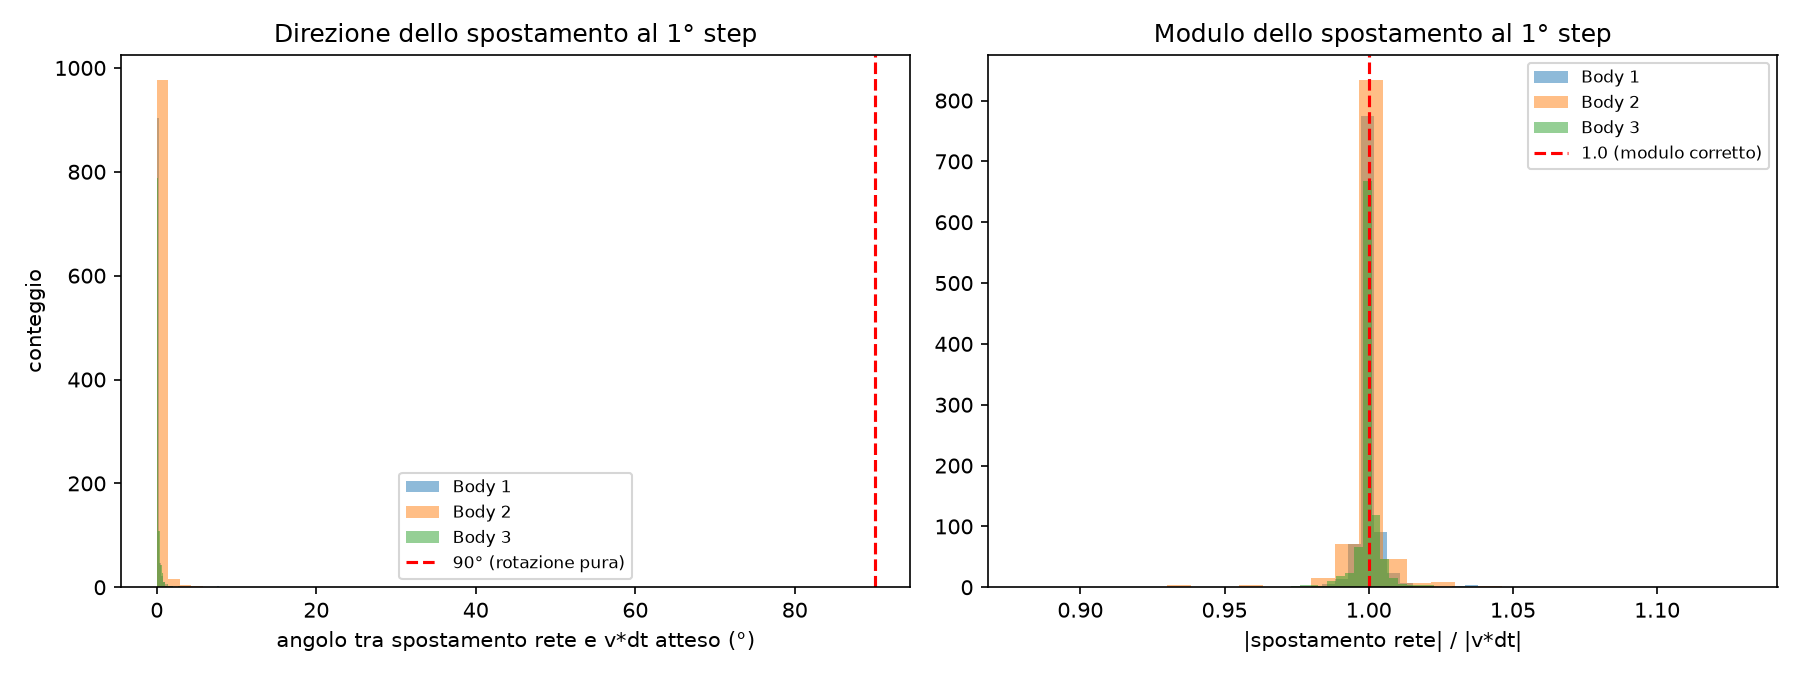
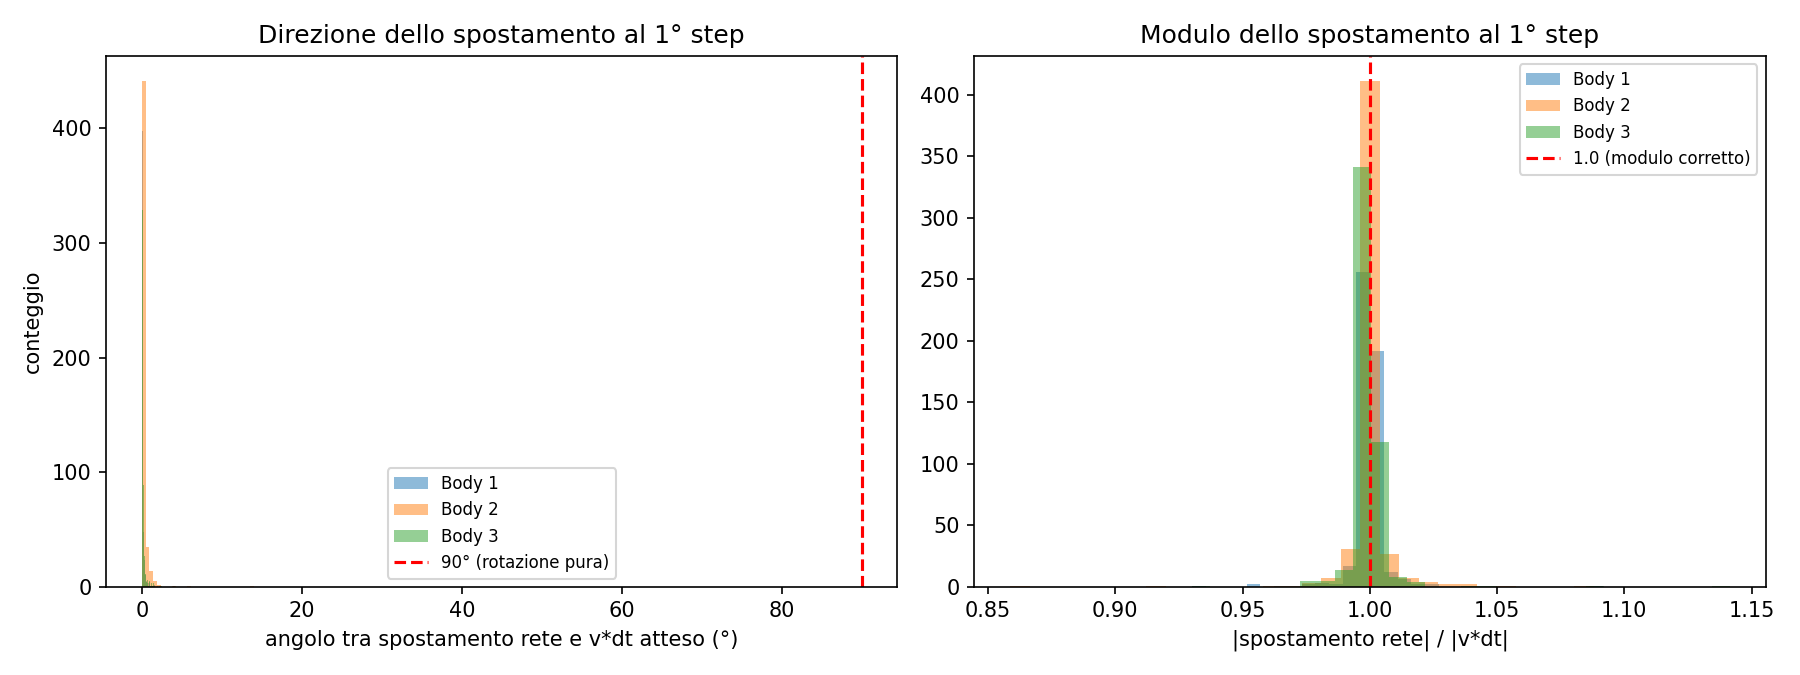
Model works bad but it makes sense, it is accumulating error, the 3 body problem is chaotic so if it changes a little bit at the beginning it will be terrible at the end

diff --git a/test_3body_pairwise.py b/test_3body_pairwise.py
@@ -1,5 +1,6 @@
 import torch
 import torch.nn as nn
+import torch.nn.functional as F
 import numpy as np
 import matplotlib.pyplot as plt
 import matplotlib.cm as cm
@@ -67,8 +68,10 @@ class PairwiseWrapperNBody(nn.Module):
                     m[:, j], p[:, j], v[:, j]
                 ], dim=-1)  # [B, 10]
 
+                state_pair_canon, _ = canonicalize_translation(state_pair)
+
                 # Prediciamo l'accelerazione usando la rete a 2 corpi
-                a_pair = self.net_2body.predict_acceleration(state_pair)  # [B, 2, 2]
+                a_pair = self.net_2body.predict_acceleration(state_pair_canon)  # [B, 2, 2]
 
                 # Accumuliamo i contributi vettoriali rispettivi
                 a_total[:, i] += a_pair[:, 0]
@@ -149,25 +152,27 @@ def test_pairwise_model(ModelWrapper, n_obj=3, device=torch.device("cpu"), rollo
     # Generiamo un'istanza iniziale standard a N corpi
     state = generate_instance(1, n_obj, device, dtype=dtype)
     # known problem 1
-    # state = torch.tensor([[
+    # special_state = torch.tensor([[
     #     3.0, 1.0, 3.0, 0.0, 0.0,
     #     4.0, -2.0, -1.0, 0.0, 0.0,
     #     5.0, 1.0, -1.0, 0.0, 0.0
     # ]], dtype=torch.float64)
 
     # known problem 2
-    # state = torch.tensor([[
-    #     1.0, 1.0, 0.0, 0.0, np.sqrt(1/np.sqrt(3)),
-    #     1.0, -0.5, np.sqrt(3)/2, -np.sqrt(3)/2 * np.sqrt(1/np.sqrt(3)), -0.5 * np.sqrt(1/np.sqrt(3)),
-    #     1.0, -0.5, -np.sqrt(3)/2, np.sqrt(3)/2 * np.sqrt(1/np.sqrt(3)), -0.5 * np.sqrt(1/np.sqrt(3))
+    # special_state = torch.tensor([[
+    #     2.25, 2.25, 0.0, 0.0, np.sqrt(1/np.sqrt(3)),
+    #     2.25, -0.5*2.25, np.sqrt(3)/2*2.25, -np.sqrt(3)/2 * np.sqrt(1/np.sqrt(3)) * np.sqrt(2.25), -0.5 * np.sqrt(1/np.sqrt(3)) * np.sqrt(2.25),
+    #     2.25, -0.5*2.25, -np.sqrt(3)/2*2.25, np.sqrt(3)/2 * np.sqrt(1/np.sqrt(3)) * np.sqrt(2.25), -0.5 * np.sqrt(1/np.sqrt(3)) * np.sqrt(2.25)
     # ]], dtype=torch.float64)
 
     # known problem 3
-    state = torch.tensor([[
-        1.0, 0.0, 0.0, -0.93240737, -0.86473146,
-        1.0, 0.97000436, -0.24308753, 0.46620369, 0.43236573,
-        1.0, -0.97000436, 0.24308753, 0.46620369, 0.43236573,
-    ]], dtype=torch.float64)
+    # special_state = torch.tensor([[
+    #     2.25,  0.0,        0.0,        -0.93240737 * np.sqrt(2.25), -0.86473146 * np.sqrt(2.25),
+    #     2.25,  0.97000436 * 2.25, -0.24308753 * 2.25,  0.46620369* * np.sqrt(2.25),  0.43236573 * np.sqrt(2.25),
+    #     2.25, -0.97000436 * 2.25,  0.24308753 * 2.25,  0.46620369 * np.sqrt(2.25),  0.43236573 * np.sqrt(2.25),
+    # ]], dtype=torch.float64)
+
+    state = state.to(device)
 
     traj_net = []
     with torch.no_grad():
@@ -297,9 +302,9 @@ if __name__ == "__main__":
     print("=" * 90)
 
     # Percorso del checkpoint del modello a 2 corpi già addestrato
-    PATH_2BODY = "./PINN_savefile/save_equivariance_acc_v4.pt"  # Sostituisci se usi v5 o g-PINN
+    PATH_2BODY = "./PINN_savefile/save_equivariance_acc_v4_gpinn.pt"  # Sostituisci se usi v5 o g-PINN
 
-    torch.manual_seed(63)
+    torch.manual_seed(42)
     DEVICE = torch.device('cuda' if torch.cuda.is_available() else 'cpu')
 
     n_blocks = 4
@@ -337,5 +342,12 @@ if __name__ == "__main__":
     print(f"Drift momento angolare: max={max(results['angular_drift']):.3e}")
     print(f"Drift momento lineare:  max={max(results['momentum_drift']):.3e}")
 
+    state = torch.tensor([[
+        1.0, 0.0, 0.0, -0.93240737, -0.86473146,
+        1.0, 0.97000436, -0.24308753, 0.46620369, 0.43236573,
+        1.0, -0.97000436, 0.24308753, 0.46620369, 0.43236573,
+    ]], dtype=torch.float64).to(DEVICE)
+
+
     # 5. Visualizzazione grafica e animazione della traiettoria
-    animate_trajectory(results["traj_net"], results["traj_solver"], n_body, interval=20)
+    animate_trajectory(results["traj_net"], results["traj_solver"], n_body, interval=20, save_path="./3_body_from_2.mp4")

diff --git a/test_nbody.py b/test_nbody.py
@@ -132,21 +132,21 @@ def test(BodyNetwork, n_obj, device=torch.device("cpu"), rollout_steps=30, dt=0.
     #     3.0, 1.0, 3.0, 0.0, 0.0,
     #     4.0, -2.0, -1.0, 0.0, 0.0,
     #     5.0, 1.0, -1.0, 0.0, 0.0
-    # ]], dtype=torch.float64)
+    # ]], dtype=torch.float64, device=device)
 
     # known problem 2
     # state = torch.tensor([[
     #     1.0, 1.0, 0.0, 0.0, np.sqrt(1/np.sqrt(3)),
     #     1.0, -0.5, np.sqrt(3)/2, -np.sqrt(3)/2 * np.sqrt(1/np.sqrt(3)), -0.5 * np.sqrt(1/np.sqrt(3)),
     #     1.0, -0.5, -np.sqrt(3)/2, np.sqrt(3)/2 * np.sqrt(1/np.sqrt(3)), -0.5 * np.sqrt(1/np.sqrt(3))
-    # ]], dtype=torch.float64)
+    # ]], dtype=torch.float64, device=device)
 
     # known problem 3
-    state = torch.tensor([[
-        1.0, 0.0, 0.0, -0.93240737, -0.86473146,
-        1.0, 0.97000436, -0.24308753, 0.46620369, 0.43236573,
-        1.0, -0.97000436, 0.24308753, 0.46620369, 0.43236573,
-    ]], dtype=torch.float64)
+    # state = torch.tensor([[
+    #     1.0, 0.0, 0.0, -0.93240737, -0.86473146,
+    #     1.0, 0.97000436, -0.24308753, 0.46620369, 0.43236573,
+    #     1.0, -0.97000436, 0.24308753, 0.46620369, 0.43236573,
+    # ]], dtype=torch.float64, device=device)
 
     traj_net = []
     with torch.no_grad():
@@ -319,13 +319,13 @@ if __name__ == "__main__":
     N_BODY = 3  # deve combaciare col checkpoint caricato
     PATH = f"./PINN_savefile/save_nbody_{N_BODY}_gpinn_acc_v4.pt"
 
-    torch.manual_seed(63)
+    torch.manual_seed(42)
 
     DEVICE = torch.device('cuda' if torch.cuda.is_available() else 'cpu')
 
     n_blocks = 4
     dt = 0.01
-    rollout_steps = 1000
+    rollout_steps = 500
     dtype = torch.float64
 
     BodyNetwork = AccelerationNBodyNetv4(
@@ -355,4 +355,4 @@ if __name__ == "__main__":
     plot_diagnostics(results, err, dir_diag, save_prefix="diag_nbody")
     print("\nSalvati: diag_nbody_stepwise_error.png, diag_nbody_conservation_drift.png, diag_nbody_direction_check.png")
 
-    animate_trajectory(results["traj_net"], results["traj_solver"], N_BODY, interval=20)
+    animate_trajectory(results["traj_net"], results["traj_solver"], N_BODY, interval=20, save_path="./3_body_video.mp4")

diff --git a/test.py b/test.py
@@ -132,6 +132,11 @@ def test(BodyNetwork, device=torch.device("cpu"), rollout_steps=30, dt=0.01, see
     # Stato iniziale (già canonizzato da generate_instance)
     state = seed_state if seed_state is not None else generate_instance(batch_size=1, device=device, dtype=dtype)
 
+    state = torch.tensor([[
+    1.0,  0.97000436, -0.24308753,  0.46620369,  0.43236573,
+    1.0, -0.97000436,  0.24308753,  0.46620369,  0.43236573
+]], dtype=torch.float64, device = device)
+
     traj_net = []
     with torch.no_grad():
         s_abs = state.clone() # Mantiene lo stato assoluto nel riferimento globale
@@ -391,4 +396,4 @@ if __name__ == "__main__":
     print("\nSalvati: diag_stepwise_error.png, diag_conservation_drift.png, diag_direction_check.png")
 
     # Animazione
-    animate_trajectory(results["traj_net"], results["traj_solver"], interval=20)
+    animate_trajectory(results["traj_net"], results["traj_solver"], interval=20, save_path = "./2_body_video.mp4")
